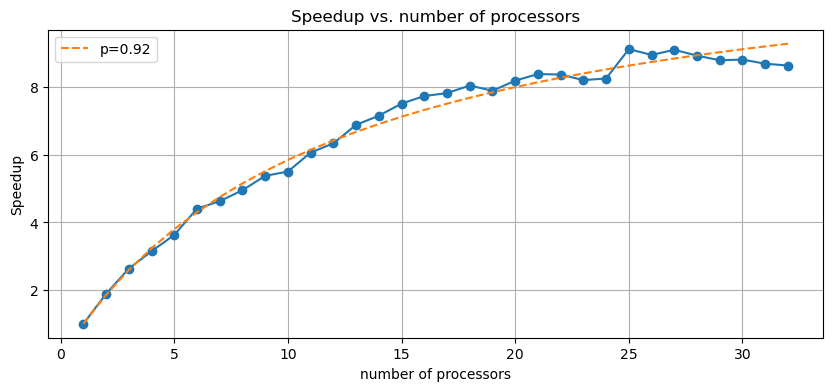
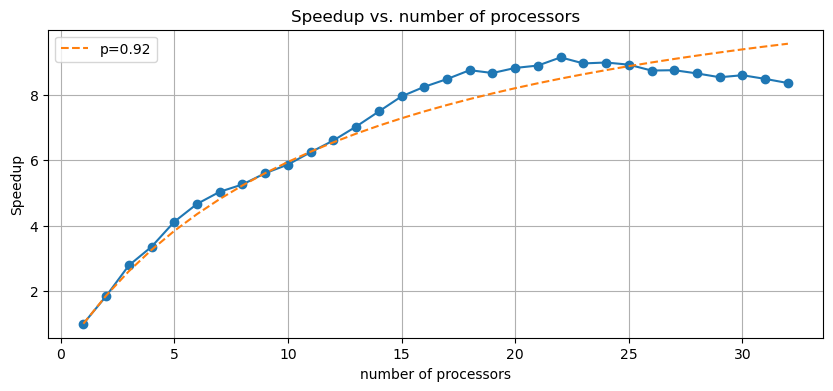
bugfix on visualization6 and added statisvsdynamic comparison

Changed region(s): [[0.0312, 0.1228, 0.9988, 0.798], [0.0312, 0.3683, 0.0624, 0.4297]]

diff --git a/miniproject/visualization_task5_to_7.py b/miniproject/visualization_task5_to_7.py
@@ -5,6 +5,8 @@ import scipy.optimize
 import seaborn as sns
 import scipy
 
+
+# Task 5 -----------------------------------------------------------------
 #retrieve data
 with open('results/task5_result.txt', 'r') as file:
     task5_content = file.read()
@@ -41,13 +43,15 @@ ax.grid(True)
 plt.savefig(f'images/task5/task5_amdahl.png', bbox_inches='tight')
 plt.close()
 
+
+# Task 6 -----------------------------------------------------------------
 #retrieve data
 with open('results/task6_result.txt', 'r') as file:
     task6_content = file.read()
     
 #process data
 task6_content =dict(eval(task6_content))
-result = np.array([np.array([key,val]) for key,val in task5_content.items()])
+result = np.array([np.array([key,val]) for key,val in task6_content.items()])
 n_processors, exec_times = result.T
 n_processors = n_processors.astype(np.int8)
 
@@ -77,7 +81,70 @@ ax.grid(True)
 plt.savefig(f'images/task6/task6_amdahl.png', bbox_inches='tight')
 plt.close()
 plt.show()
+
+
+# Task 5vs6 -----------------------------------------------------------------
+with open('results/task5_result.txt', 'r') as file:
+    task5_content = file.read()
+    task5_content =dict(eval(task5_content))
+
+with open('results/task6_result.txt', 'r') as file:
+    task6_content = file.read()
+    task6_content =dict(eval(task6_content))
     
+fig, ax = plt.subplots(1,1, figsize = (10,4)) 
+#process data
+
+tasks = dict(static = task5_content,
+             dynamic = task6_content)
+
+speedups = {}
+
+for task in tasks.keys():
+    task_content=tasks[task]
+    result = np.array([np.array([key,val]) for key,val in task_content.items()])
+    n_processors, exec_times = result.T
+    n_processors = n_processors.astype(np.int8)
+    result = np.array([np.array([key,val]) for key,val in task_content.items()])
+    n_processors, exec_times = result.T
+    n_processors = n_processors.astype(np.int8)
+    speedup = exec_times[0]/exec_times
+    speedups[task] = (n_processors, speedup)
+    #visualize data
+    #Execution time plot
+    ax.plot(n_processors, np.log10(exec_times), linestyle='-', label=task)
+    
+ax.set(title=f'Execution time vs. number of processors', xlabel='number of processors', ylabel='log10(Execution time) (s)')
+ax.legend()
+ax.grid(True)
+plt.savefig(f'images/task6/task5vs6_exec.png', bbox_inches='tight')
+plt.close()
+
+    
+###Plot speedup
+# #compute experimental speedup
+###Compute experimental parallelization
+speedup = speedups['dynamic'][1]
+def amdahl(P, F):
+    return 1 / (F/P + (1 - F))
+params, _ = scipy.optimize.curve_fit(amdahl, n_processors, speedup, bounds=(0, 1))
+F_opt = params[0]
+fig, ax = plt.subplots(1,1, figsize = (10,4))
+
+for task in tasks.keys():
+    ax.plot(*speedups[task], linestyle='-', marker='o', label=task)
+ax.plot(n_processors, [amdahl(p, F_opt) for p in n_processors], '--', label=f'p={F_opt:.2f}')
+
+
+ax.set(title=f'Speedup vs. number of processors', xlabel='number of processors', ylabel='Speedup')
+ax.legend()
+ax.grid(True)
+plt.savefig(f'images/task6/task5vs6_speedup.png', bbox_inches='tight')
+plt.close()
+
+
+# Task 7 -----------------------------------------------------------------
+
 #retrieve data
 with open('results/task7_result.txt', 'r') as file:
     building_ids, exec_times = file.readlines()

diff --git a/miniproject/task6.py b/miniproject/task6.py
@@ -69,7 +69,7 @@ args_list = [(u0, mask, MAX_ITER, ABS_TOL) for u0, mask in zip(all_u0, all_inter
 
 exec_times = {}
 print(f"Experiment timing for {N} floor plans with up to {max_n_proc} processors, starting from 1 processor")
-for n_proc in range(1, max_n_proc + 1):
+for n_proc in range(max_n_proc, max_n_proc + 1):
     with Pool(n_proc) as pool:
         t= time()
         # Submit tasks dynamically using apply_async
